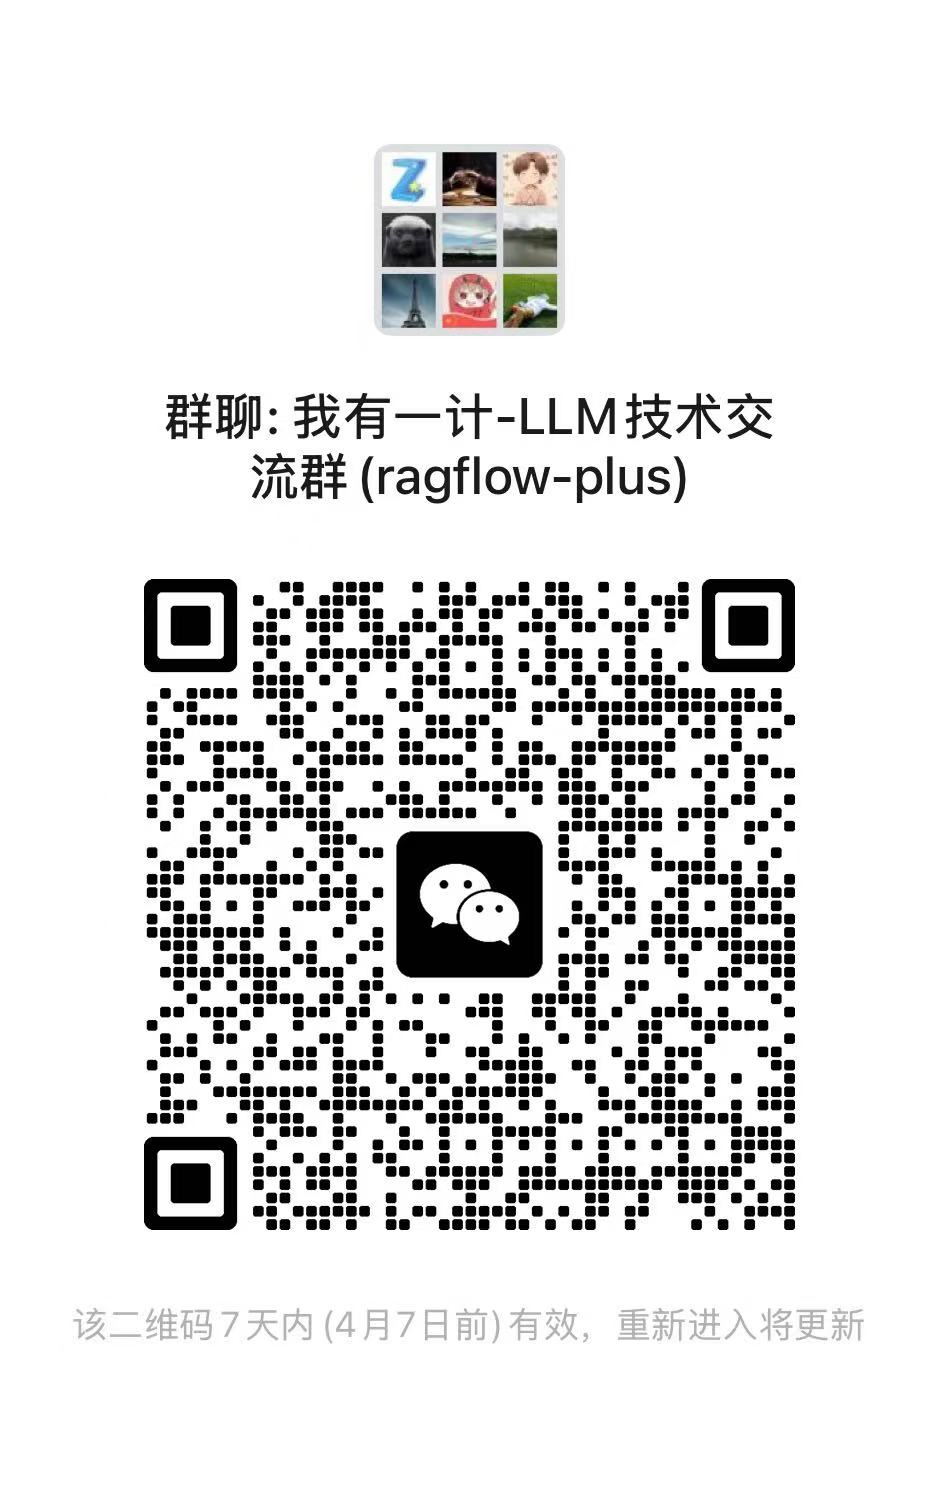
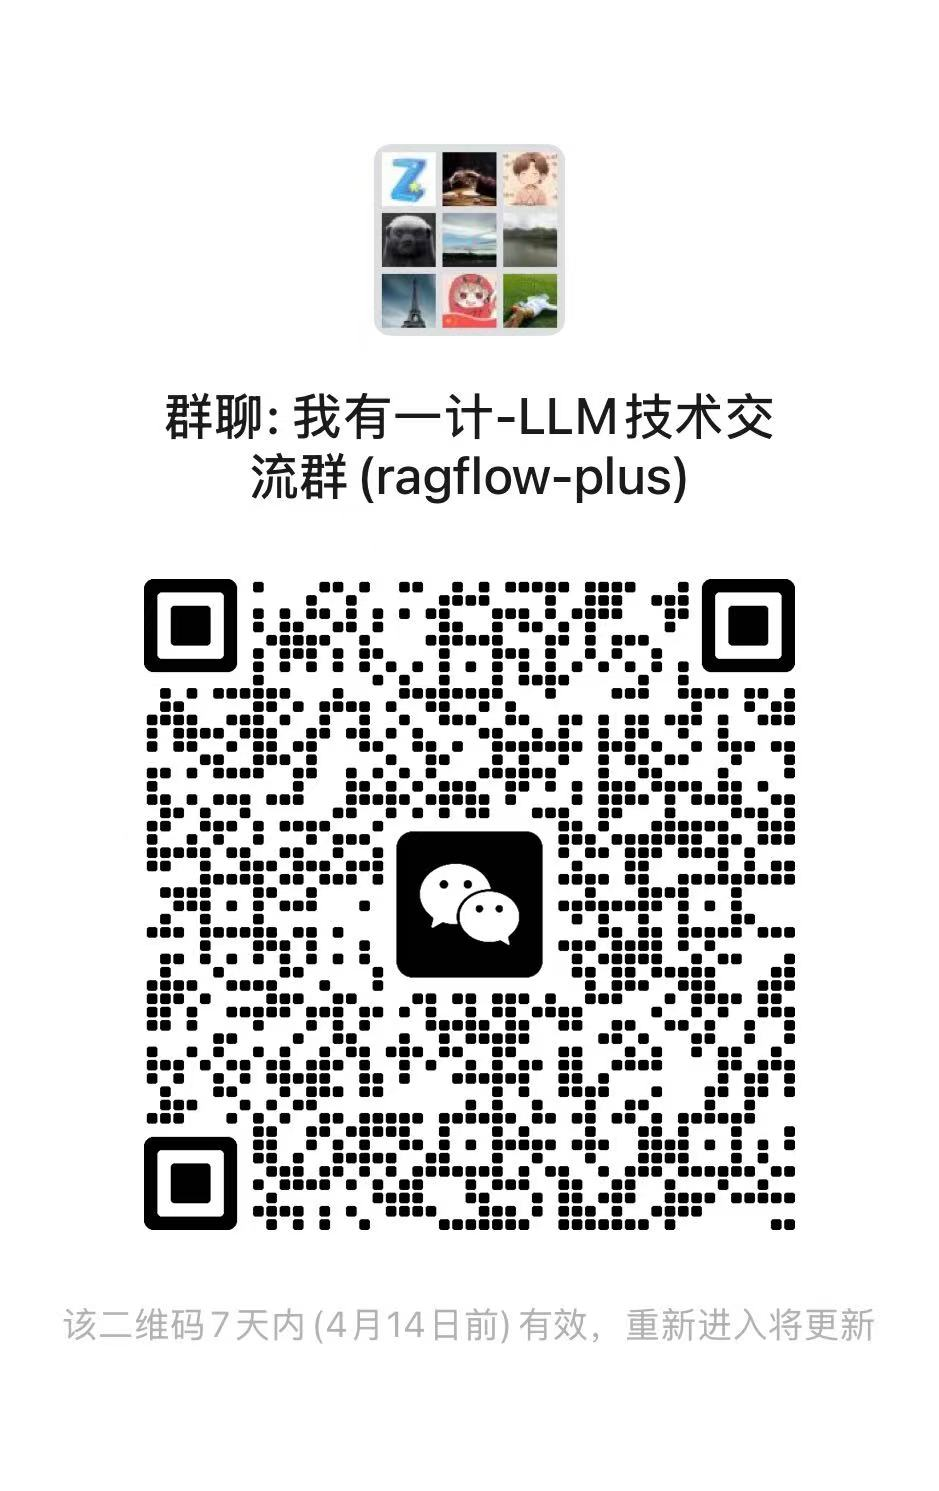
refactor(database): 将数据库主机配置从容器内部切换为本地，定期更新交流群二维码 (#17)
将数据库连接配置中的主机从`host.docker.internal`切换为`localhost`，以便在本地开发环境中更方便地访问数据库。

Changed region(s): [[0.1544, 0.3702, 0.8647, 0.833], [0.0618, 0.8638, 0.6177, 0.8947], [0.6486, 0.8638, 0.9265, 0.8947]]

diff --git a/management/server/database.py b/management/server/database.py
@@ -4,8 +4,8 @@ from datetime import datetime
 
 # 数据库连接配置
 db_config = {
-    "host": "host.docker.internal", # 如果是在Docke容器内部访问数据库
-    # "host": "localhost",
+    # "host": "host.docker.internal", # 如果是在Docke容器内部访问数据库
+    "host": "localhost",
     "port": 5455,
     "user": "root",
     "password": "infini_rag_flow",
